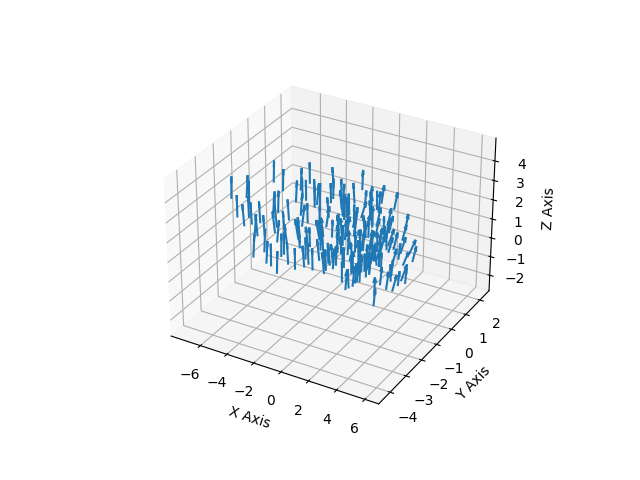
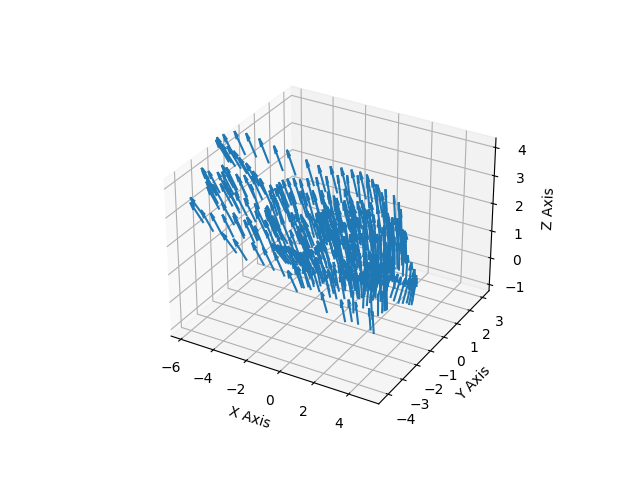
motion-aware機構とスケール正則化、不透明度正則化を追加

diff --git a/analyze_gaussian_parameters.py b/analyze_gaussian_parameters.py
@@ -1,0 +1,168 @@
+import numpy as np
+import torch
+from scene import Scene
+import os
+from tqdm import tqdm
+from gaussian_renderer import render
+from arguments import ModelParams, PipelineParams, get_combined_args, ModelHiddenParams
+from gaussian_renderer import GaussianModel
+from utils.general_utils import safe_state
+from utils.render_utils import get_state_at_time
+from argparse import ArgumentParser
+import matplotlib.pyplot as plt
+
+def analyze_and_plot(dataset: ModelParams, hyperparam, iteration: int, pipeline: PipelineParams,
+                     target_frames: list, rois: list, opacity_threshold: float):
+    """
+    Analyzes Gaussian parameters for a specific set of frames and ROIs, then plots a bar chart.
+
+    Args:
+        dataset (ModelParams): Dataset parameters.
+        hyperparam: Hyperparameters for the Gaussian model.
+        iteration (int): The iteration number of the model to load.
+        pipeline (PipelineParams): Pipeline parameters.
+        target_frames (list): A list of frame indices to analyze.
+        rois (list): A list of ROIs, one for each target frame.
+        opacity_threshold (float): The opacity threshold to filter Gaussians.
+    """
+    with torch.no_grad():
+        gaussians = GaussianModel(dataset.sh_degree, hyperparam)
+        scene = Scene(dataset, gaussians, load_iteration=iteration, shuffle=False)
+
+        # Use test cameras for analysis, can be changed to getVideoCameras()
+        viewpoints = scene.getTestCameras()
+        if not viewpoints:
+            print("No cameras found to analyze.")
+            return
+
+        # NEW LOGIC: Analyze specified frames with their corresponding ROIs.
+        print(f"Analyzing frames {target_frames}...")
+        avg_volumes = []
+        avg_anisotropies = []
+
+        for i, frame_idx in enumerate(tqdm(target_frames, desc="Analyzing frames")):
+            if frame_idx >= len(viewpoints):
+                print(f"Warning: frame index {frame_idx} is out of bounds. Skipping.")
+                continue
+
+            viewpoint = viewpoints[frame_idx]
+            roi = rois[i]
+            
+            # Get Gaussian state at the current viewpoint's time
+            means3D, scales_t, _, opacities, _ = get_state_at_time(gaussians, viewpoint)
+
+            # --- Identify Gaussians in ROI for the CURRENT frame ---
+            w_T_c = viewpoint.world_view_transform
+            c_T_w = torch.inverse(w_T_c).to(means3D.device)
+            ones = torch.ones(means3D.shape[0], 1, device=means3D.device)
+            points_homogeneous = torch.cat([means3D, ones], dim=1)
+            points_camera_space = (c_T_w @ points_homogeneous.T).T[:, :3]
+
+            opacity_mask = opacities.squeeze(-1) > opacity_threshold
+
+            x_min, y_min, x_max, y_max = roi
+            img_w, img_h = viewpoint.image_width, viewpoint.image_height
+            ndc_x_min, ndc_y_min = 2.0 * x_min / img_w - 1.0, 2.0 * y_min / img_h - 1.0
+            ndc_x_max, ndc_y_max = 2.0 * x_max / img_w - 1.0, 2.0 * y_max / img_h - 1.0
+            
+            z_camera = points_camera_space[:, 2]
+            viewspace_points_x = points_camera_space[:, 0] / (z_camera + 1e-9)
+            viewspace_points_y = points_camera_space[:, 1] / (z_camera + 1e-9)
+            
+            roi_mask = (viewspace_points_x >= ndc_x_min) & (viewspace_points_x <= ndc_x_max) & \
+                       (viewspace_points_y >= ndc_y_min) & (viewspace_points_y <= ndc_y_max) & \
+                       (z_camera > 0)
+            
+            target_mask = opacity_mask & roi_mask
+            target_indices = torch.where(target_mask)[0]
+            # --- End: Identification for the CURRENT frame ---
+
+            if len(target_indices) == 0:
+                print(f"Warning: No Gaussians found in ROI {roi} for frame {frame_idx}. Appending 0.")
+                avg_volumes.append(0)
+                avg_anisotropies.append(0)
+                continue
+            
+            # Filter for target gaussians
+            target_scales = scales_t[target_indices]
+
+            # Calculate Volume and Anisotropy
+            volumes = torch.prod(target_scales, dim=1)
+            avg_volume = torch.mean(volumes).item()
+            avg_volumes.append(avg_volume)
+
+            anisotropy = torch.std(target_scales, dim=1)
+            avg_anisotropy = torch.mean(anisotropy).item()
+            avg_anisotropies.append(avg_anisotropy)
+
+        # Plotting the results as a bar chart
+        print("Plotting results as a bar chart...")
+        fig, (ax1, ax2) = plt.subplots(2, 1, figsize=(12, 10), sharex=True)
+        x_labels = [str(f) for f in target_frames]
+        x_pos = np.arange(len(x_labels))
+        
+        # Plot Average Volume
+        ax1.bar(x_pos, avg_volumes, align='center', alpha=0.7, color='b')
+        ax1.set_ylabel('Average Volume')
+        ax1.set_title(f'Gaussian Parameter Comparison for Frames {target_frames}')
+        ax1.grid(True)
+
+        # Plot Average Anisotropy
+        ax2.bar(x_pos, avg_anisotropies, align='center', alpha=0.7, color='g')
+        ax2.set_xticks(x_pos)
+        ax2.set_xticklabels(x_labels)
+        ax2.set_xlabel('Frame Index')
+        ax2.set_ylabel('Average Anisotropy')
+        ax2.grid(True)
+
+        plt.tight_layout()
+        output_path = os.path.join(dataset.model_path, "analysis")
+        os.makedirs(output_path, exist_ok=True)
+        
+        # Flatten the list of ROIs for the filename
+        flat_rois = [coord for roi_coords in rois for coord in roi_coords]
+        plot_filename = os.path.join(output_path, f"params_comparison_frames_{'_'.join(map(str, target_frames))}_rois_{'_'.join(map(str, flat_rois))}.png")
+        plt.savefig(plot_filename)
+        print(f"Analysis plot saved to: {plot_filename}")
+        plt.close()
+
+if __name__ == "__main__":
+    parser = ArgumentParser(description="Analysis script for 4D Gaussian Splatting.")
+    model = ModelParams(parser, sentinel=True)
+    pipeline = PipelineParams(parser)
+    hyperparam = ModelHiddenParams(parser)
+    parser.add_argument("--iteration", default=-1, type=int, help="Iteration number to load model.")
+    parser.add_argument("--quiet", action="store_true")
+    parser.add_argument("--configs", type=str, required=True, help="Path to the configuration file.")
+    
+    # Arguments for analysis
+    parser.add_argument("--target_frames", type=int, nargs='+', required=True, help="A list of frame indices to analyze (e.g., 334 335 336).")
+    parser.add_argument("--rois", type=int, nargs='+', required=True, help="A flattened list of ROIs, 4 values per frame (e.g., x1 y1 x2 y2 x1 y1 x2 y2 ...).")
+    parser.add_argument("--opacity_threshold", type=float, default=0.1, help="Opacity threshold to filter Gaussians.")
+
+    args = get_combined_args(parser)
+    
+    print("Running analysis for:", args.model_path)
+    if args.configs:
+        import mmcv
+        from utils.params_utils import merge_hparams
+        config = mmcv.Config.fromfile(args.configs)
+        args = merge_hparams(args, config)
+
+    safe_state(args.quiet)
+
+    if len(args.rois) != len(args.target_frames) * 4:
+        raise ValueError("The number of values for --rois must be 4 times the number of --target_frames.")
+
+    # Reshape the flattened ROIs list into a list of lists
+    rois_list = [args.rois[i:i + 4] for i in range(0, len(args.rois), 4)]
+
+    analyze_and_plot(model.extract(args),
+                     hyperparam.extract(args),
+                     args.iteration,
+                     pipeline.extract(args),
+                     args.target_frames,
+                     rois_list,
+                     args.opacity_threshold)
+
+    print("\nAnalysis complete.")

diff --git a/train.py b/train.py
@@ -176,10 +176,12 @@ def scene_reconstruction(dataset, opt, hyper, pipe, testing_iterations, saving_i
         gt_images = []
         radii_list = []
         visibility_filter_list = []
+        scales_list = [] # For scale regularization
+        delta_xyz_list = [] # For dynamic penalty
         viewspace_point_tensor_list = []
         for viewpoint_cam in viewpoint_cams:
             render_pkg = render(viewpoint_cam, gaussians, pipe, background, stage=stage,cam_type=scene.dataset_type)
-            image, viewspace_point_tensor, visibility_filter, radii = render_pkg["render"], render_pkg["viewspace_points"], render_pkg["visibility_filter"], render_pkg["radii"]
+            image, viewspace_point_tensor, visibility_filter, radii, opacities = render_pkg["render"], render_pkg["viewspace_points"], render_pkg["visibility_filter"], render_pkg["radii"], render_pkg["opacities"]
             images.append(image.unsqueeze(0))
             if scene.dataset_type!="PanopticSports":
                 gt_image = viewpoint_cam.original_image.cuda()
@@ -189,6 +191,11 @@ def scene_reconstruction(dataset, opt, hyper, pipe, testing_iterations, saving_i
             gt_images.append(gt_image.unsqueeze(0))
             radii_list.append(radii.unsqueeze(0))
             visibility_filter_list.append(visibility_filter.unsqueeze(0))
+            if "scales" in render_pkg:
+                scales_list.append(render_pkg["scales"].unsqueeze(0)) # Collect scales
+            if "delta_xyz" in render_pkg:
+                delta_xyz_list.append(render_pkg["delta_xyz"].unsqueeze(0)) # Collect delta_xyz
+            # opacities_list.append(opacities.unsqueeze(0))
             viewspace_point_tensor_list.append(viewspace_point_tensor)
         
 
@@ -196,6 +203,13 @@ def scene_reconstruction(dataset, opt, hyper, pipe, testing_iterations, saving_i
         visibility_filter = torch.cat(visibility_filter_list).any(dim=0)
         image_tensor = torch.cat(images,0)
         gt_image_tensor = torch.cat(gt_images,0)
+        if scales_list:
+            scales_tensor = torch.cat(scales_list, 0).mean(dim=0) # Average scales over batch
+        else:
+            scales_tensor = None
+        if delta_xyz_list:
+            delta_xyz_tensor = torch.cat(delta_xyz_list, 0).mean(dim=0) # Average delta_xyz over batch
+        
         # Loss
         # breakpoint()
         Ll1 = l1_loss(image_tensor, gt_image_tensor[:,:3,:,:])
@@ -212,6 +226,42 @@ def scene_reconstruction(dataset, opt, hyper, pipe, testing_iterations, saving_i
         if opt.lambda_dssim != 0:
             ssim_loss = ssim(image_tensor,gt_image_tensor)
             loss += opt.lambda_dssim * (1.0-ssim_loss)
+
+        # --- Add Scale Regularization Loss ---
+        ## You can add a new hyperparameter for this weight.
+        ## Apply scale regularization only in the fine stage for stability.
+        if stage == "fine":
+            #--- all gaussians scale Regularization  ---
+            lambda_scale_reg = 0.01
+            if lambda_scale_reg > 0:
+            #    # Penalize the max scale of each Gaussian if it exceeds a threshold
+                max_scales, _ = torch.max(scales_tensor, dim=1)
+            #    # Penalize scales larger than a certain threshold (e.g., 0.1)
+                scale_loss = torch.mean(torch.clamp(max_scales - 0.1, min=0))
+                loss += lambda_scale_reg * scale_loss
+
+            # --- Opacity Regularization to prevent ghosting ---
+            lambda_opacity_reg = 0.015 # 新しいハイパーパラメータ
+            if lambda_opacity_reg > 0:
+                opacity_loss = torch.mean(torch.clamp(0.1 - opacities, min=0)) # 閾値0.05より小さい不透明度にペナルティ
+                loss += lambda_opacity_reg * opacity_loss
+            # --- Dynamic Scale Regularization ---
+            #base_lambda_scale_reg = 0.3 # Max penalty weight
+            #motion_threshold = 0.01 # Threshold to start penalizing
+
+            #with torch.no_grad(): # Don't backprop through lambda calculation
+            #    motion_magnitude = torch.linalg.norm(delta_xyz_tensor, dim=-1)
+            #    # Weight lambda based on how much motion exceeds the threshold
+            #    lambda_motion = torch.clamp(motion_magnitude - motion_threshold, min=0.0)
+
+            # Penalize the max scale of each Gaussian
+            #max_scales, _ = torch.max(scales_tensor, dim=1)
+            #scale_exceedance = torch.clamp(max_scales - 0.1, min=0) # 0.1 is scale threshold
+            
+            ## Apply dynamic penalty
+            #scale_loss = torch.mean(lambda_motion * scale_exceedance)
+            #loss += base_lambda_scale_reg * scale_loss
+        # --- End Scale Regularization ---
         # if opt.lambda_lpips !=0:
         #     lpipsloss = lpips_loss(image_tensor,gt_image_tensor,lpips_model)
         #     loss += opt.lambda_lpips * lpipsloss

diff --git a/scene/deformation.py b/scene/deformation.py
@@ -59,10 +59,21 @@ class Deformation(nn.Module):
             self.feature_out.append(nn.Linear(self.W,self.W))
         self.feature_out = nn.Sequential(*self.feature_out)
         self.pos_deform = nn.Sequential(nn.ReLU(),nn.Linear(self.W,self.W),nn.ReLU(),nn.Linear(self.W, 3))
-        self.scales_deform = nn.Sequential(nn.ReLU(),nn.Linear(self.W,self.W),nn.ReLU(),nn.Linear(self.W, 3))
         self.rotations_deform = nn.Sequential(nn.ReLU(),nn.Linear(self.W,self.W),nn.ReLU(),nn.Linear(self.W, 4))
-        self.opacity_deform = nn.Sequential(nn.ReLU(),nn.Linear(self.W,self.W),nn.ReLU(),nn.Linear(self.W, 1))
         self.shs_deform = nn.Sequential(nn.ReLU(),nn.Linear(self.W,self.W),nn.ReLU(),nn.Linear(self.W, 16*3))
+
+        # --- Motion-Aware機構の定義 ---
+        motion_feature_dim = 16  # 動き特徴量の次元数（ハイパーパラメータ）
+        motion_encoder_hidden_dim = 16 # この値が16で最適化された
+        self.motion_encoder_mlp = nn.Sequential(
+            nn.Linear(1, motion_encoder_hidden_dim),
+            nn.ReLU(),
+            nn.Linear(motion_encoder_hidden_dim, motion_feature_dim)
+        ) # 入力次元を1（ノルム）に変更
+        # Scaling Head と Opacity Head の両方にMotion-Awareを適用
+        self.scales_deform = nn.Sequential(nn.ReLU(),nn.Linear(self.W + motion_feature_dim, self.W),nn.ReLU(),nn.Linear(self.W, 3))
+        self.opacity_deform = nn.Sequential(nn.ReLU(),nn.Linear(self.W + motion_feature_dim, self.W),nn.ReLU(),nn.Linear(self.W, 1))
+        # --- ここまで ---
 
     def query_time(self, rays_pts_emb, scales_emb, rotations_emb, time_feature, time_emb):
 
@@ -109,15 +120,35 @@ class Deformation(nn.Module):
             dx = self.pos_deform(hidden)
             pts = torch.zeros_like(rays_pts_emb[:,:3])
             pts = rays_pts_emb[:,:3]*mask + dx
+
         if self.args.no_ds :
-            
             scales = scales_emb[:,:3]
         else:
-            ds = self.scales_deform(hidden)
+            # 動き特徴量を一度だけ計算
+            motion_magnitude = torch.linalg.norm(dx, dim=-1, keepdim=True)
+            motion_feature = self.motion_encoder_mlp(motion_magnitude.detach())
+            fused_features = torch.cat([hidden, motion_feature], dim=-1)
+            
+            ds = self.scales_deform(fused_features)
 
             scales = torch.zeros_like(scales_emb[:,:3])
             scales = scales_emb[:,:3]*mask + ds
             
+        if self.args.no_do :
+            opacity = opacity_emb[:,:1] 
+        else:
+            # 計算済みのfused_featuresを再利用
+            do = self.opacity_deform(fused_features)
+
+            opacity = torch.zeros_like(opacity_emb[:,:1])
+            opacity = opacity_emb[:,:1]*mask + do
+        if self.args.no_dshs:
+            shs = shs_emb
+        else:
+            dshs = self.shs_deform(hidden).reshape([shs_emb.shape[0],16,3])
+            shs = torch.zeros_like(shs_emb)
+            shs = shs_emb*mask.unsqueeze(-1) + dshs
+
         if self.args.no_dr :
             rotations = rotations_emb[:,:4]
         else:
@@ -128,22 +159,6 @@ class Deformation(nn.Module):
                 rotations = batch_quaternion_multiply(rotations_emb, dr)
             else:
                 rotations = rotations_emb[:,:4] + dr
-
-        if self.args.no_do :
-            opacity = opacity_emb[:,:1] 
-        else:
-            do = self.opacity_deform(hidden) 
-          
-            opacity = torch.zeros_like(opacity_emb[:,:1])
-            opacity = opacity_emb[:,:1]*mask + do
-        if self.args.no_dshs:
-            shs = shs_emb
-        else:
-            dshs = self.shs_deform(hidden).reshape([shs_emb.shape[0],16,3])
-
-            shs = torch.zeros_like(shs_emb)
-            # breakpoint()
-            shs = shs_emb*mask.unsqueeze(-1) + dshs
 
         return pts, scales, rotations, opacity, shs
     def get_mlp_parameters(self):

diff --git a/gaussian_renderer/__init__.py b/gaussian_renderer/__init__.py
@@ -78,15 +78,17 @@ def render(viewpoint_camera, pc : GaussianModel, pipe, bg_color : torch.Tensor, 
         rotations = pc._rotation
     deformation_point = pc._deformation_table
     if "coarse" in stage:
-        means3D_final, scales_final, rotations_final, opacity_final, shs_final = means3D, scales, rotations, opacity, shs
+        means3D_final = means3D
+        scales_final, rotations_final, opacity_final, shs_final = scales, rotations, opacity, shs
+        delta_xyz = torch.zeros_like(means3D)
     elif "fine" in stage:
         # time0 = get_time()
         # means3D_deform, scales_deform, rotations_deform, opacity_deform = pc._deformation(means3D[deformation_point], scales[deformation_point], 
         #                                                                  rotations[deformation_point], opacity[deformation_point],
         #                                                                  time[deformation_point])
         means3D_final, scales_final, rotations_final, opacity_final, shs_final = pc._deformation(means3D, scales, 
-                                                                 rotations, opacity, shs,
-                                                                 time)
+                                                                 rotations, opacity, shs, time)
+        delta_xyz = means3D_final - means3D
     else:
         raise NotImplementedError
 
@@ -95,8 +97,8 @@ def render(viewpoint_camera, pc : GaussianModel, pipe, bg_color : torch.Tensor, 
     # time2 = get_time()
     # print("asset value:",time2-time1)
     scales_final = pc.scaling_activation(scales_final)
-    rotations_final = pc.rotation_activation(rotations_final)
-    opacity = pc.opacity_activation(opacity_final)
+    rotations_final = pc.rotation_activation(rotations_final) # [N, 4]
+    opacity = pc.opacity_activation(opacity_final) # [N, 1]
     # print(opacity.max())
     # If precomputed colors are provided, use them. Otherwise, if it is desired to precompute colors
     # from SHs in Python, do it. If not, then SH -> RGB conversion will be done by rasterizer.
@@ -135,5 +137,7 @@ def render(viewpoint_camera, pc : GaussianModel, pipe, bg_color : torch.Tensor, 
             "viewspace_points": screenspace_points,
             "visibility_filter" : radii > 0,
             "radii": radii,
-            "depth":depth}
-
+            "depth":depth,
+            "scales": scales_final, # for scale regularization
+            "opacities": opacity, # for opacity regularization
+            "delta_xyz": delta_xyz} # for motion regularization
